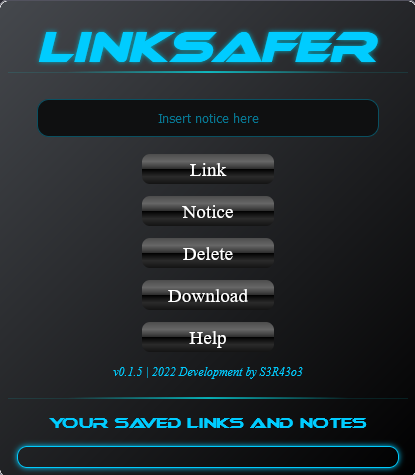
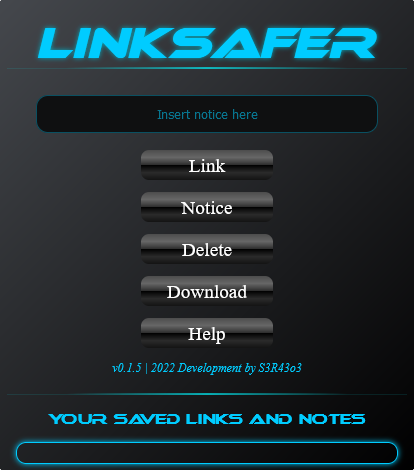
update image  && disable clickable notes

diff --git a/js/content.js b/js/content.js
@@ -159,13 +159,19 @@ browser.browserAction.onClicked.addListener(() => {
 function UpdateLinks(new_links) {
     let listItems="";
     for (let i = 0; i < new_links.length; i++) {
-        listItems += `<li><a id='a' style='overflow: hidden;' href='${new_links[i]}' target='_blank'><br/>${new_links[i]}</a></li>`;
+        if (new_links[i].includes("http") ) {
+            listItems += `<li><a id='a' style='overflow: hidden;' href='${new_links[i]}' target='_blank'><br/>${new_links[i]}</a></li>`;
+         
+        }else{
+            listItems += `<li><a id='a' style='overflow: hidden; text-decoration: none;' href='#' ><br/>${new_links[i]}</a></li>`;
+        }
 
     }
     const list = listItems;
     listElement.innerHTML = list;
 
 }
+
 
 
 

diff --git a/style/style.css b/style/style.css
@@ -89,7 +89,7 @@ h1{
 #a:link, #a:visited, #a:hover, #a:active {
     text-decoration: underline;
     color: #00ccff;
-  }
+}
 
 .button{
     margin: 3% auto;
